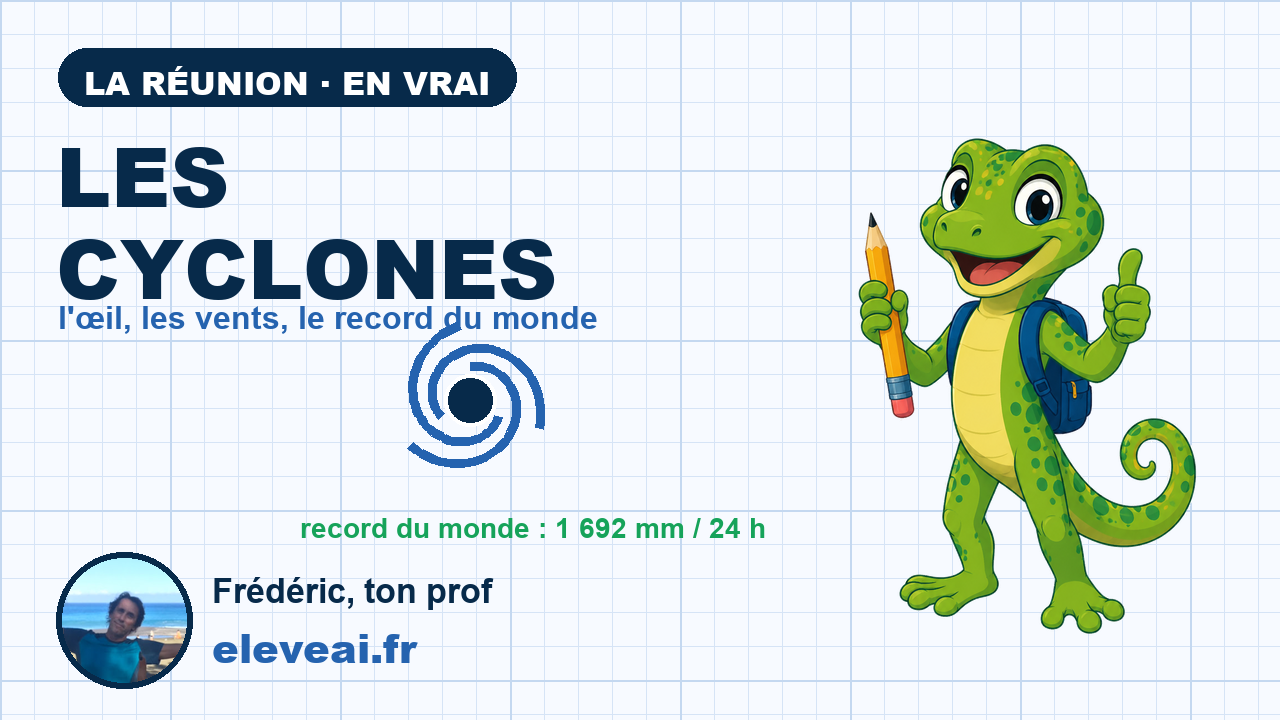
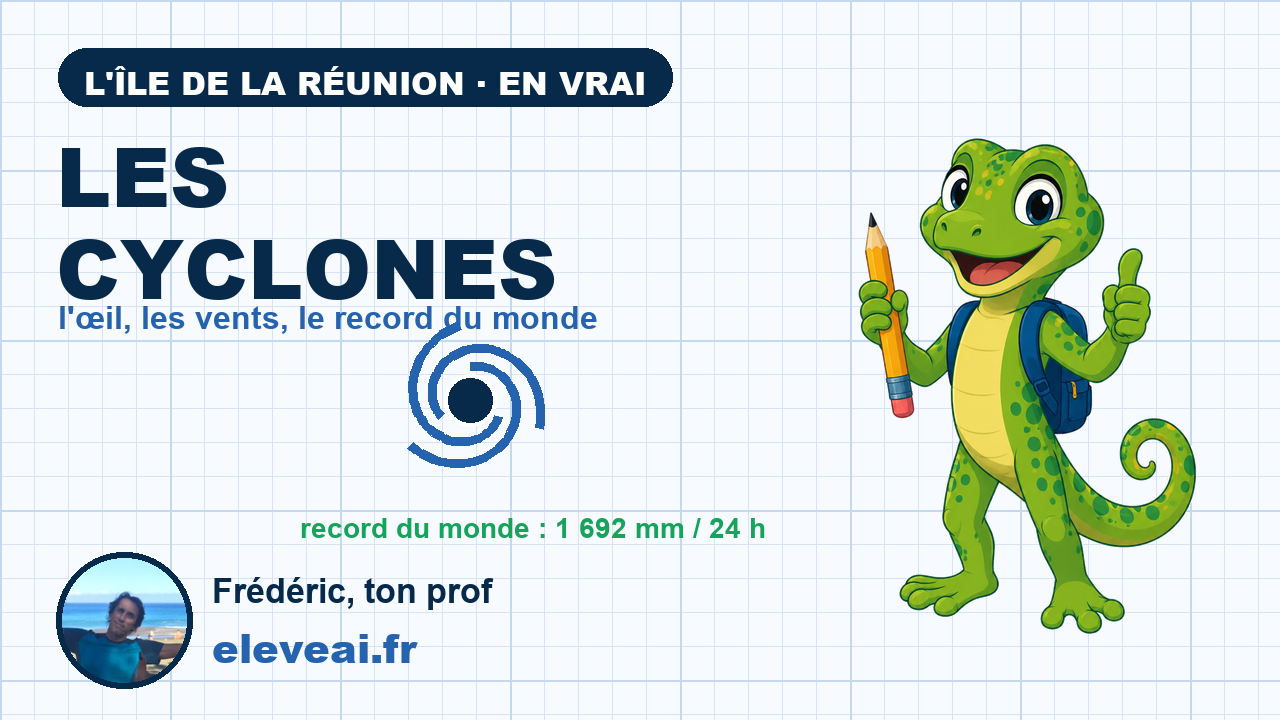
miniatures « en vrai » : « La Reunion » -> « l'ile de la Reunion » (badge des 4 + titres eau/lait) pour le SEO/trafic ; regenerees

Changed region(s): [[0.0625, 0.0611, 0.5312, 0.1528]]

diff --git a/manim/miniature.py b/manim/miniature.py
@@ -545,19 +545,19 @@ def acc_volcan_974(d):
 # ── LE REGISTRE : une entrée par notion ────────────────────────────────────────
 NOTIONS = {
     "eleveai-maths-974-volcan-reunion": {
-        "badge": "LA RÉUNION · EN VRAI", "titre": ["LE PITON DE", "LA FOURNAISE"], "taille": 62,
+        "badge": "L'ÎLE DE LA RÉUNION · EN VRAI", "titre": ["LE PITON DE", "LA FOURNAISE"], "taille": 62,
         "sous": "un volcan qui fabrique l'île", "accroche": acc_volcan_974,
     },
     "eleveai-maths-974-cyclone-reunion": {
-        "badge": "LA RÉUNION · EN VRAI", "titre": ["LES", "CYCLONES"], "taille": 82,
+        "badge": "L'ÎLE DE LA RÉUNION · EN VRAI", "titre": ["LES", "CYCLONES"], "taille": 82,
         "sous": "l'œil, les vents, le record du monde", "accroche": acc_cyclone_974,
     },
     "eleveai-maths-974-lait-reunion": {
-        "badge": "LA RÉUNION · EN VRAI", "titre": ["LE LAIT DE", "LA RÉUNION"], "taille": 74,
+        "badge": "L'ÎLE DE LA RÉUNION · EN VRAI", "titre": ["LE LAIT DE", "L'ÎLE DE LA RÉUNION"], "taille": 52,
         "sous": "du pré des hauts à ton yaourt", "accroche": acc_lait_974,
     },
     "eleveai-maths-974-circulation-eau": {
-        "badge": "LA RÉUNION · EN VRAI", "titre": ["L'EAU DE", "LA RÉUNION"], "taille": 74,
+        "badge": "L'ÎLE DE LA RÉUNION · EN VRAI", "titre": ["L'EAU DE", "L'ÎLE DE LA RÉUNION"], "taille": 52,
         "sous": "de l'océan à ton robinet", "accroche": acc_eau_974,
     },
     "eleveai-maths-cm2-nombre-decimal": {
